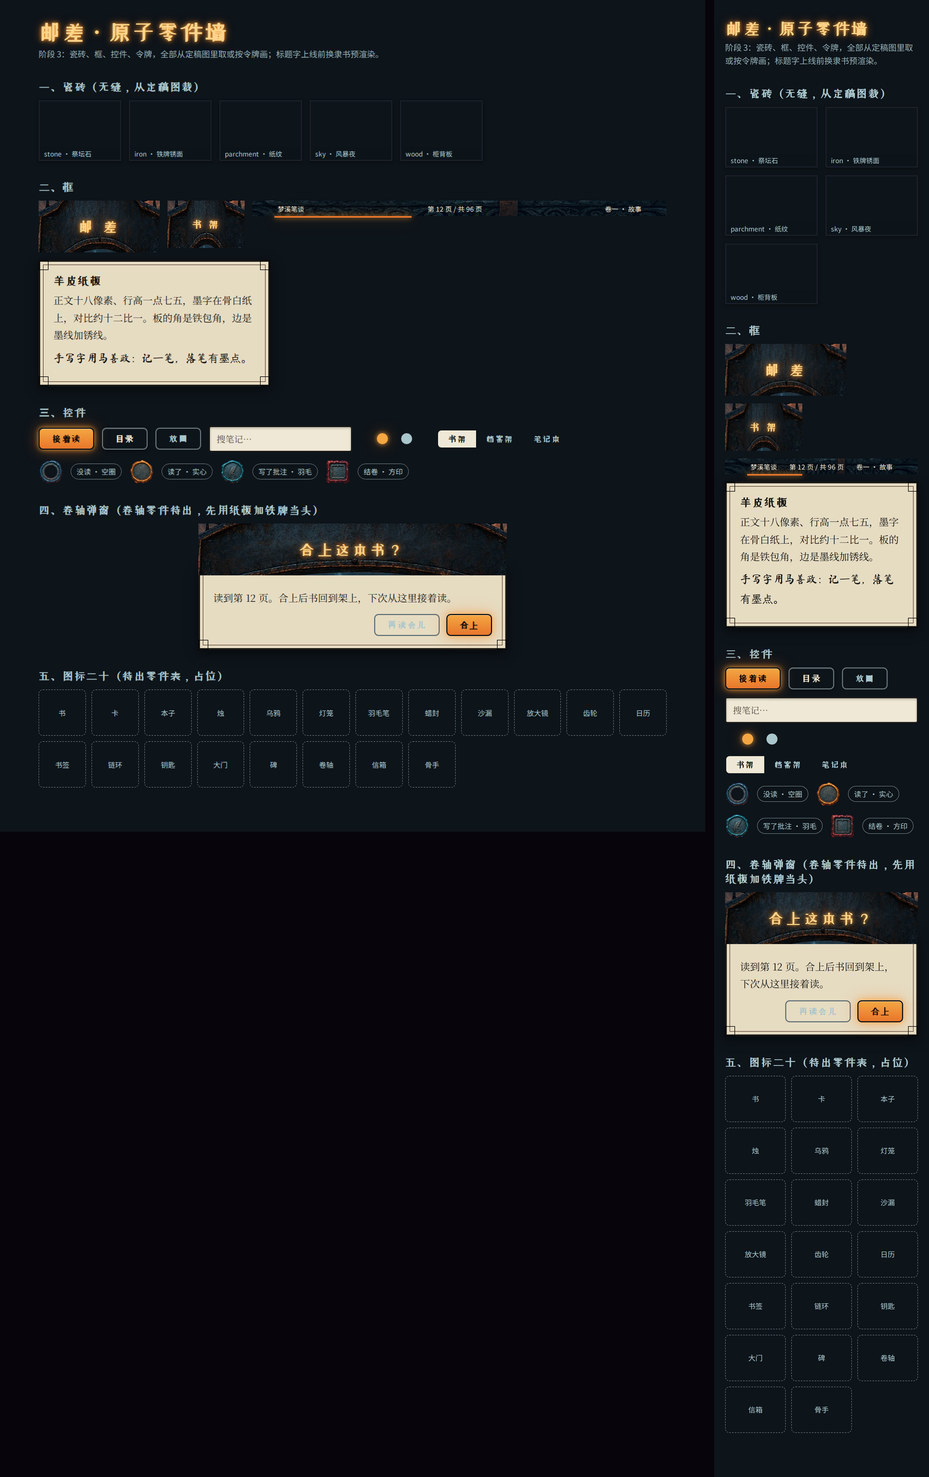
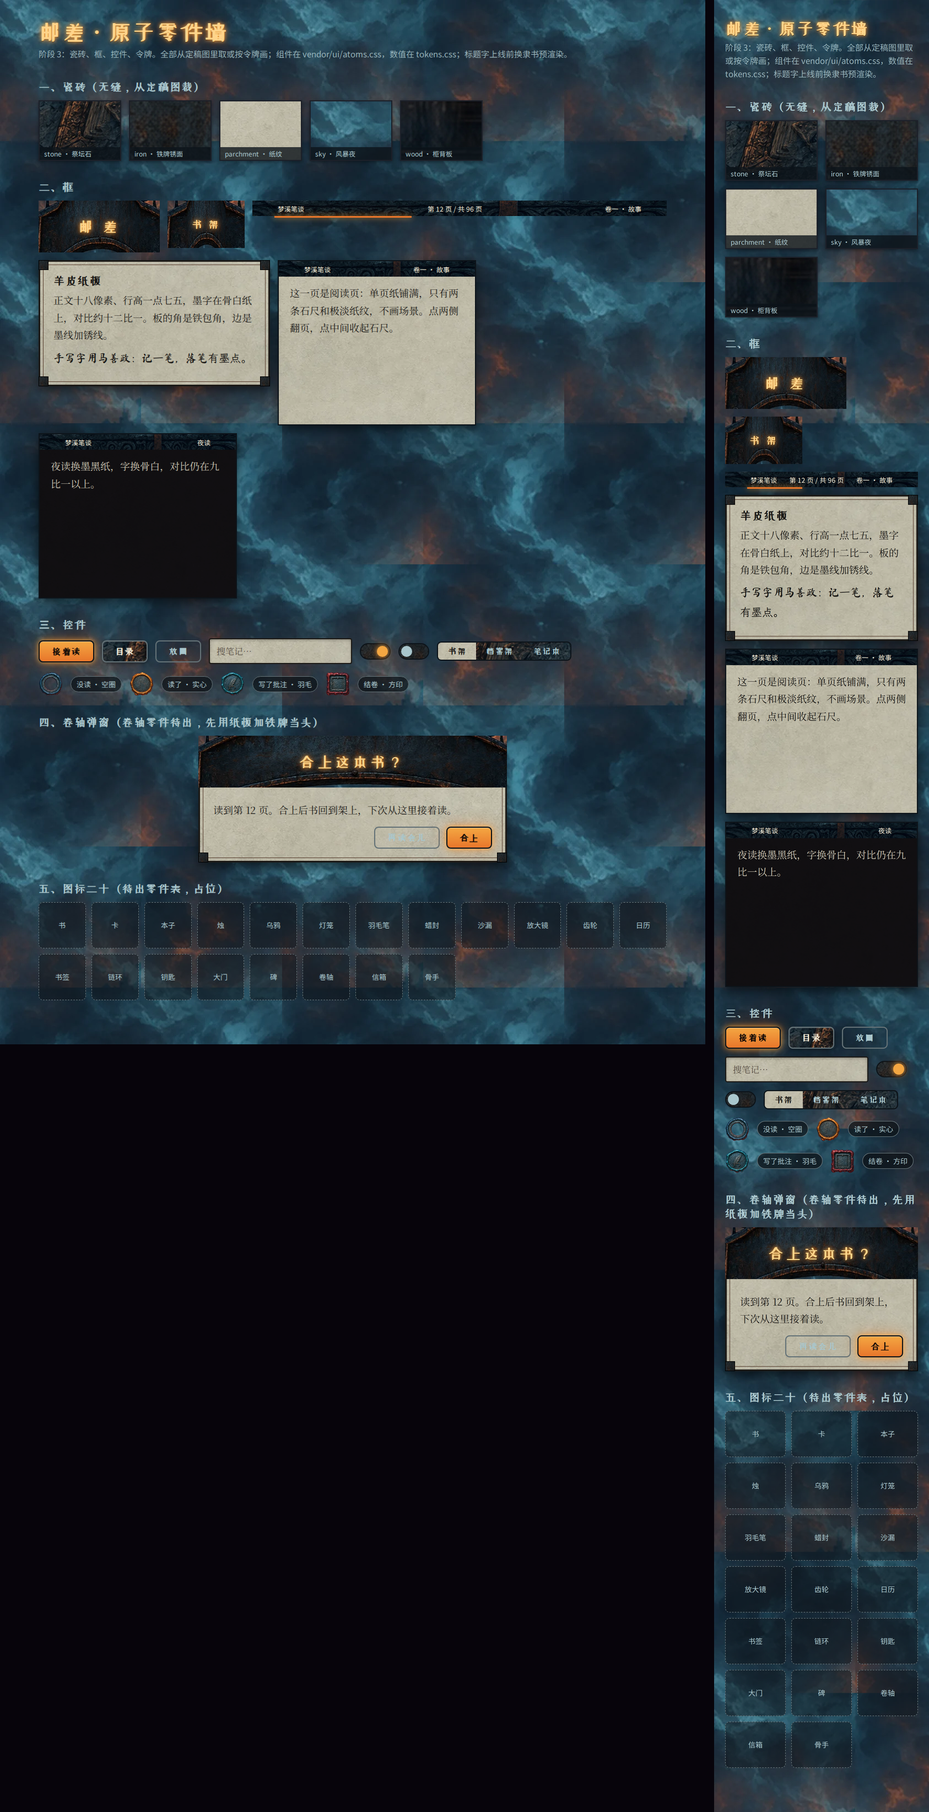
原子组件进 vendor/ui/atoms.css（瓷砖类、框、纸板、阅读页、控件、卷轴弹窗），零件墙页改用组件类，截图重出

diff --git a/docs/ui-atoms.html b/docs/ui-atoms.html
@@ -6,108 +6,75 @@
 <title>邮差 · 原子零件墙</title>
 <link rel="stylesheet" href="../vendor/fonts/fonts.css">
 <link rel="stylesheet" href="../vendor/ui/tokens.css">
+<link rel="stylesheet" href="../vendor/ui/atoms.css">
 <style>
   * { box-sizing: border-box; }
-  body { margin: 0; background: var(--yx-iron-900) var(--yx-tile-sky) center / 512px; color: var(--yx-paper); font: 15px/1.6 var(--yx-font-ui); }
+  body { margin: 0; font: 15px/1.6 var(--yx-font-ui); }
   main { max-width: 1180px; margin: 0 auto; padding: 24px var(--yx-gutter) 80px; }
   h1 { font: 700 40px/1.2 var(--yx-font-title); color: var(--yx-glow-200); text-shadow: var(--yx-glow-text); margin: 10px 0 4px; letter-spacing: .06em; }
   h2 { font: 700 20px/1.3 var(--yx-font-title); color: var(--yx-mist-300); margin: 34px 0 12px; letter-spacing: .08em; }
   .sub { color: var(--yx-mist-300); opacity: .85; }
   .row { display: flex; flex-wrap: wrap; gap: 14px; align-items: flex-start; }
-  /* 瓷砖 */
   .tile { width: 150px; height: 110px; border: 2px solid var(--yx-iron-700); box-shadow: var(--yx-shadow-soft); position: relative; }
   .tile b { position: absolute; left: 0; right: 0; bottom: 0; padding: 3px 8px; background: rgba(13,20,26,.8); font: 12px var(--yx-font-ui); color: var(--yx-mist-300); }
-  .t-stone { background: var(--yx-tile-stone) 0 0 / 256px; }
-  .t-iron { background: var(--yx-tile-iron) 0 0 / 256px; }
-  .t-parchment { background: var(--yx-tile-parchment) 0 0 / 256px; }
-  .t-sky { background: var(--yx-tile-sky) 0 0 / 256px; }
-  .t-wood { background: var(--yx-tile-wood) 0 0 / 256px; }
-  /* 框 */
-  .ironplate { border-style: solid; border-width: 28px 34px; border-image: url("../vendor/ui/frames/ironplate.webp") 28 34 28 34 fill / 28px 34px stretch; color: var(--yx-glow-200); font: 700 26px/1 var(--yx-font-title); text-shadow: var(--yx-glow-text); text-align: center; letter-spacing: .2em; padding: 6px 10px; display: inline-block; min-width: 220px; }
-  .ruler { height: var(--yx-ruler-h); border-style: solid; border-width: 0 40px; border-image: url("../vendor/ui/frames/stoneruler.webp") 0 40 0 40 fill / 0 40px stretch; display: flex; align-items: center; justify-content: space-between; padding: 0 6px; font: 12px var(--yx-font-ui); color: var(--yx-paper); position: relative; }
-  .ruler .bar { position: absolute; left: 0; bottom: -3px; height: 3px; background: var(--yx-glow-600); box-shadow: var(--yx-glow); }
-  .panel { background: var(--yx-paper-deep) var(--yx-tile-parchment) 0 0 / 512px; color: var(--yx-ink); border: 3px solid var(--yx-ink); outline: 1px solid var(--yx-rust-700); outline-offset: -9px; padding: 22px 24px; box-shadow: var(--yx-shadow); position: relative; }
-  .panel::before, .panel::after, .panel i::before, .panel i::after { content: ""; position: absolute; width: 16px; height: 16px; background: var(--yx-tile-iron) 0 0 / 64px; border: 1px solid #000; }
-  .panel::before { left: -3px; top: -3px; } .panel::after { right: -3px; top: -3px; } .panel i::before { left: -3px; bottom: -3px; } .panel i::after { right: -3px; bottom: -3px; }
-  .panel h3 { margin: 0 0 8px; font: 700 20px/1.2 var(--yx-font-title); letter-spacing: .1em; }
-  .panel p { margin: 0 0 8px; font: var(--yx-read-size)/var(--yx-read-lh) var(--yx-font-body); }
-  .panel .hand { font: 20px/1.8 var(--yx-font-hand); }
-  /* 控件 */
-  .btn { display: inline-flex; align-items: center; gap: 8px; padding: 10px 22px; border-radius: var(--yx-radius-m); font: 700 16px var(--yx-font-title); letter-spacing: .1em; cursor: pointer; border: 2px solid var(--yx-iron-900); transition: transform var(--yx-t-fast) var(--yx-ease), box-shadow var(--yx-t-fast); }
-  .btn:active { transform: translateY(2px); }
-  .btn-glow { background: linear-gradient(var(--yx-glow-400), var(--yx-glow-600)); color: #140c08; box-shadow: var(--yx-glow), inset 0 1px 0 rgba(255,255,255,.35); }
-  .btn-stone { background: var(--yx-tile-stone) 0 0 / 256px; color: var(--yx-paper); box-shadow: var(--yx-shadow-soft), inset 0 1px 0 rgba(255,255,255,.12); border-color: var(--yx-mist-600); }
-  .btn-ghost { background: transparent; color: var(--yx-mist-300); border-color: var(--yx-mist-600); }
-  .input { background: var(--yx-paper) var(--yx-tile-parchment) 0 0 / 512px; color: var(--yx-ink); border: 2px solid var(--yx-ink); border-radius: var(--yx-radius-s); padding: 10px 12px; font: 16px var(--yx-font-body); width: 260px; box-shadow: inset 0 2px 4px rgba(0,0,0,.25); }
-  .input::placeholder { color: var(--yx-ink-soft); }
-  .toggle { width: 56px; height: 30px; border-radius: 15px; background: var(--yx-tile-iron) 0 0 / 128px; border: 2px solid var(--yx-iron-900); position: relative; display: inline-block; vertical-align: middle; }
-  .toggle::after { content: ""; position: absolute; top: 3px; left: 3px; width: 20px; height: 20px; border-radius: 50%; background: var(--yx-mist-300); transition: left var(--yx-t-fast); }
-  .toggle.on::after { left: 29px; background: var(--yx-glow-400); box-shadow: var(--yx-glow); }
-  .tabs { display: inline-flex; border: 2px solid var(--yx-iron-900); border-radius: var(--yx-radius-m); overflow: hidden; background: var(--yx-tile-stone) 0 0 / 256px; }
-  .tabs span { padding: 8px 18px; font: 700 15px var(--yx-font-title); letter-spacing: .1em; color: var(--yx-mist-300); }
-  .tabs span.on { background: var(--yx-paper) var(--yx-tile-parchment) 0 0 / 512px; color: var(--yx-ink); }
-  .seal { width: 44px; height: 44px; vertical-align: middle; }
-  .chip { display: inline-flex; align-items: center; gap: 6px; padding: 4px 10px; border-radius: 20px; background: rgba(13,20,26,.75); border: 1px solid var(--yx-mist-600); color: var(--yx-mist-300); font: 13px var(--yx-font-ui); }
-  /* 卷轴弹窗（待卷轴零件；先用羊皮纸板加铁牌当头） */
-  .scroll { width: min(560px, 100%); margin: 0 auto; }
-  .scroll .head { display: block; margin: 0 auto -18px; position: relative; z-index: 1; }
-  .scroll .body { padding-top: 40px; }
-  .scroll .acts { display: flex; gap: 12px; justify-content: flex-end; margin-top: 14px; }
   .icons { display: grid; grid-template-columns: repeat(auto-fill, minmax(84px, 1fr)); gap: 10px; }
   .icons div { height: 84px; border: 1px dashed var(--yx-mist-600); border-radius: var(--yx-radius-m); display: flex; align-items: center; justify-content: center; font: 13px var(--yx-font-ui); color: var(--yx-mist-300); background: rgba(13,20,26,.5); }
-  @media (max-width: 600px) { h1 { font-size: 30px; } .tile { width: calc(50% - 7px); } .input { width: 100%; } }
+  .page-demo { width: min(360px, 100%); height: 300px; overflow: hidden; border: 2px solid var(--yx-iron-900); box-shadow: var(--yx-shadow); }
+  @media (max-width: 600px) { h1 { font-size: 30px; } .tile { width: calc(50% - 7px); } .yx-input { width: 100%; } }
 </style>
 </head>
-<body>
+<body class="yx-night">
 <main>
   <h1>邮差 · 原子零件墙</h1>
-  <div class="sub">阶段 3：瓷砖、框、控件、令牌，全部从定稿图里取或按令牌画；标题字上线前换隶书预渲染。</div>
+  <div class="sub">阶段 3：瓷砖、框、控件、令牌。全部从定稿图里取或按令牌画；组件在 vendor/ui/atoms.css，数值在 tokens.css；标题字上线前换隶书预渲染。</div>
 
   <h2>一、瓷砖（无缝，从定稿图裁）</h2>
   <div class="row">
-    <div class="tile t-stone"><b>stone · 祭坛石</b></div>
-    <div class="tile t-iron"><b>iron · 铁牌锈面</b></div>
-    <div class="tile t-parchment"><b>parchment · 纸纹</b></div>
-    <div class="tile t-sky"><b>sky · 风暴夜</b></div>
-    <div class="tile t-wood"><b>wood · 柜背板</b></div>
+    <div class="tile yx-tile-stone"><b>stone · 祭坛石</b></div>
+    <div class="tile yx-tile-iron"><b>iron · 铁牌锈面</b></div>
+    <div class="tile yx-tile-parchment"><b>parchment · 纸纹</b></div>
+    <div class="tile yx-tile-sky"><b>sky · 风暴夜</b></div>
+    <div class="tile yx-tile-wood"><b>wood · 柜背板</b></div>
   </div>
 
   <h2>二、框</h2>
   <div class="row">
-    <div class="ironplate">邮 差</div>
-    <div class="ironplate" style="min-width:140px;font-size:18px">书 架</div>
-    <div style="flex:1;min-width:260px"><div class="ruler"><span>梦溪笔谈</span><span>第 12 页 / 共 96 页</span><span>卷一 · 故事</span><div class="bar" style="width:37%"></div></div></div>
+    <div class="yx-ironplate">邮 差</div>
+    <div class="yx-ironplate small">书 架</div>
+    <div style="flex:1;min-width:260px"><div class="yx-ruler"><span>梦溪笔谈</span><span>第 12 页 / 共 96 页</span><span>卷一 · 故事</span><div class="bar" style="width:37%"></div></div></div>
   </div>
   <div class="row" style="margin-top:14px">
-    <div class="panel" style="width:min(420px,100%)"><i></i>
+    <div class="yx-panel" style="width:min(420px,100%)"><i></i>
       <h3>羊皮纸板</h3>
       <p>正文十八像素、行高一点七五，墨字在骨白纸上，对比约十二比一。板的角是铁包角，边是墨线加锈线。</p>
       <p class="hand">手写字用马善政：记一笔，落笔有墨点。</p>
     </div>
+    <div class="page-demo yx-page"><div class="yx-ruler" style="margin:-20px -20px 14px"><span>梦溪笔谈</span><span>卷一 · 故事</span></div>这一页是阅读页：单页纸铺满，只有两条石尺和极淡纸纹，不画场景。点两侧翻页，点中间收起石尺。</div>
+    <div class="page-demo yx-page night"><div class="yx-ruler" style="margin:-20px -20px 14px"><span>梦溪笔谈</span><span>夜读</span></div>夜读换墨黑纸，字换骨白，对比仍在九比一以上。</div>
   </div>
 
   <h2>三、控件</h2>
   <div class="row" style="align-items:center">
-    <span class="btn btn-glow">接着读</span>
-    <span class="btn btn-stone">目录</span>
-    <span class="btn btn-ghost">放回</span>
-    <input class="input" placeholder="搜笔记…">
-    <span class="toggle on"></span><span class="toggle"></span>
-    <div class="tabs"><span class="on">书架</span><span>档案架</span><span>笔记本</span></div>
+    <span class="yx-btn glow">接着读</span>
+    <span class="yx-btn stone">目录</span>
+    <span class="yx-btn ghost">放回</span>
+    <input class="yx-input" placeholder="搜笔记…" style="width:260px">
+    <span class="yx-toggle on"></span><span class="yx-toggle"></span>
+    <div class="yx-tabs"><span class="on">书架</span><span>档案架</span><span>笔记本</span></div>
   </div>
   <div class="row" style="align-items:center;margin-top:14px">
-    <img class="seal" src="../vendor/ui/seals/s01.webp" alt="没读"><span class="chip">没读 · 空圈</span>
-    <img class="seal" src="../vendor/ui/seals/s02.webp" alt="读了"><span class="chip">读了 · 实心</span>
-    <img class="seal" src="../vendor/ui/seals/s03.webp" alt="批注"><span class="chip">写了批注 · 羽毛</span>
-    <img class="seal" src="../vendor/ui/seals/s04.webp" alt="结卷"><span class="chip">结卷 · 方印</span>
+    <img class="yx-seal" src="../vendor/ui/seals/s01.webp" alt="没读"><span class="yx-chip">没读 · 空圈</span>
+    <img class="yx-seal" src="../vendor/ui/seals/s02.webp" alt="读了"><span class="yx-chip">读了 · 实心</span>
+    <img class="yx-seal" src="../vendor/ui/seals/s03.webp" alt="批注"><span class="yx-chip">写了批注 · 羽毛</span>
+    <img class="yx-seal" src="../vendor/ui/seals/s04.webp" alt="结卷"><span class="yx-chip">结卷 · 方印</span>
   </div>
 
   <h2>四、卷轴弹窗（卷轴零件待出，先用纸板加铁牌当头）</h2>
-  <div class="scroll">
-    <div class="ironplate head">合上这本书？</div>
-    <div class="panel body"><i></i>
+  <div class="yx-scroll">
+    <div class="yx-ironplate head">合上这本书？</div>
+    <div class="yx-panel body"><i></i>
       <p>读到第 12 页。合上后书回到架上，下次从这里接着读。</p>
-      <div class="acts"><span class="btn btn-ghost">再读会儿</span><span class="btn btn-glow">合上</span></div>
+      <div class="acts"><span class="yx-btn ghost">再读会儿</span><span class="yx-btn glow">合上</span></div>
     </div>
   </div>
 

diff --git a/vendor/ui/atoms.css b/vendor/ui/atoms.css
@@ -1,0 +1,51 @@
+/* 邮差奇幻界面 · 原子组件（圣经第四稿）。依赖 tokens.css 与 vendor/fonts/fonts.css。
+   瓷砖与框的图片路径相对本文件（vendor/ui/），所以不写在变量里。 */
+
+/* 瓷砖 */
+.yx-tile-stone { background-image: url("tiles/stone.webp"); background-size: 256px; }
+.yx-tile-iron { background-image: url("tiles/iron.webp"); background-size: 256px; }
+.yx-tile-parchment { background-image: url("tiles/parchment.webp"); background-size: 512px; }
+.yx-tile-sky { background-image: url("tiles/sky.webp"); background-size: 512px; }
+.yx-tile-wood { background-image: url("tiles/wood.webp"); background-size: 256px; }
+.yx-night { background-color: var(--yx-iron-900); background-image: url("tiles/sky.webp"); background-size: 512px; color: var(--yx-paper); }
+
+/* 框：铁牌（九宫格）与石尺（三切） */
+.yx-ironplate { border-style: solid; border-width: 28px 34px; border-image: url("frames/ironplate.webp") 28 34 28 34 fill / 28px 34px stretch; color: var(--yx-glow-200); font: 700 26px/1 var(--yx-font-title); text-shadow: var(--yx-glow-text); text-align: center; letter-spacing: .2em; padding: 6px 10px; display: inline-block; min-width: 220px; }
+.yx-ironplate.small { min-width: 140px; font-size: 18px; }
+.yx-ruler { height: var(--yx-ruler-h); border-style: solid; border-width: 0 40px; border-image: url("frames/stoneruler.webp") 0 40 0 40 fill / 0 40px stretch; display: flex; align-items: center; justify-content: space-between; padding: 0 6px; font: 12px var(--yx-font-ui); color: var(--yx-paper); position: relative; }
+.yx-ruler .bar { position: absolute; left: 0; bottom: -3px; height: 3px; background: var(--yx-glow-600); box-shadow: var(--yx-glow); }
+
+/* 羊皮纸板：纸纹瓷砖加墨线、锈线、铁包角 */
+.yx-panel { background-color: var(--yx-paper-deep); background-image: url("tiles/parchment.webp"); background-size: 512px; color: var(--yx-ink); border: 3px solid var(--yx-ink); outline: 1px solid var(--yx-rust-700); outline-offset: -9px; padding: 22px 24px; box-shadow: var(--yx-shadow); position: relative; }
+.yx-panel::before, .yx-panel::after, .yx-panel > i::before, .yx-panel > i::after { content: ""; position: absolute; width: 16px; height: 16px; background: url("tiles/iron.webp") 0 0 / 64px; border: 1px solid #000; }
+.yx-panel::before { left: -3px; top: -3px; } .yx-panel::after { right: -3px; top: -3px; } .yx-panel > i::before { left: -3px; bottom: -3px; } .yx-panel > i::after { right: -3px; bottom: -3px; }
+.yx-panel h3 { margin: 0 0 8px; font: 700 20px/1.2 var(--yx-font-title); letter-spacing: .1em; }
+.yx-panel p { margin: 0 0 8px; font: var(--yx-read-size)/var(--yx-read-lh) var(--yx-font-body); }
+.yx-panel .hand { font: 20px/1.8 var(--yx-font-hand); }
+
+/* 阅读页：单页纸铺满，只有两条石尺 */
+.yx-page { background-color: var(--yx-paper); background-image: url("tiles/parchment.webp"); background-size: 512px; color: var(--yx-ink); font: var(--yx-read-size)/var(--yx-read-lh) var(--yx-font-body); padding: var(--yx-gutter); }
+.yx-page.night { background-color: var(--yx-night-paper); background-blend-mode: multiply; color: var(--yx-night-ink); }
+
+/* 控件 */
+.yx-btn { display: inline-flex; align-items: center; gap: 8px; padding: 10px 22px; border-radius: var(--yx-radius-m); font: 700 16px var(--yx-font-title); letter-spacing: .1em; cursor: pointer; border: 2px solid var(--yx-iron-900); transition: transform var(--yx-t-fast) var(--yx-ease), box-shadow var(--yx-t-fast); user-select: none; }
+.yx-btn:active { transform: translateY(2px); }
+.yx-btn.glow { background: linear-gradient(var(--yx-glow-400), var(--yx-glow-600)); color: #140c08; box-shadow: var(--yx-glow), inset 0 1px 0 rgba(255,255,255,.35); }
+.yx-btn.stone { background: url("tiles/stone.webp") 0 0 / 256px; color: var(--yx-paper); box-shadow: var(--yx-shadow-soft), inset 0 1px 0 rgba(255,255,255,.12); border-color: var(--yx-mist-600); }
+.yx-btn.ghost { background: transparent; color: var(--yx-mist-300); border-color: var(--yx-mist-600); }
+.yx-input { background: var(--yx-paper) url("tiles/parchment.webp") 0 0 / 512px; color: var(--yx-ink); border: 2px solid var(--yx-ink); border-radius: var(--yx-radius-s); padding: 10px 12px; font: 16px var(--yx-font-body); box-shadow: inset 0 2px 4px rgba(0,0,0,.25); }
+.yx-input::placeholder { color: var(--yx-ink-soft); }
+.yx-toggle { width: 56px; height: 30px; border-radius: 15px; background: url("tiles/iron.webp") 0 0 / 128px; border: 2px solid var(--yx-iron-900); position: relative; display: inline-block; vertical-align: middle; }
+.yx-toggle::after { content: ""; position: absolute; top: 3px; left: 3px; width: 20px; height: 20px; border-radius: 50%; background: var(--yx-mist-300); transition: left var(--yx-t-fast); }
+.yx-toggle.on::after { left: 29px; background: var(--yx-glow-400); box-shadow: var(--yx-glow); }
+.yx-tabs { display: inline-flex; border: 2px solid var(--yx-iron-900); border-radius: var(--yx-radius-m); overflow: hidden; background: url("tiles/stone.webp") 0 0 / 256px; }
+.yx-tabs > * { padding: 8px 18px; font: 700 15px var(--yx-font-title); letter-spacing: .1em; color: var(--yx-mist-300); cursor: pointer; }
+.yx-tabs > .on { background: var(--yx-paper) url("tiles/parchment.webp") 0 0 / 512px; color: var(--yx-ink); }
+.yx-seal { width: 44px; height: 44px; vertical-align: middle; }
+.yx-chip { display: inline-flex; align-items: center; gap: 6px; padding: 4px 10px; border-radius: 20px; background: rgba(13,20,26,.75); border: 1px solid var(--yx-mist-600); color: var(--yx-mist-300); font: 13px var(--yx-font-ui); }
+
+/* 卷轴弹窗（卷轴零件出来前：铁牌当头、纸板当身） */
+.yx-scroll { width: min(560px, 100%); margin: 0 auto; }
+.yx-scroll .head { display: block; margin: 0 auto -18px; position: relative; z-index: 1; }
+.yx-scroll .body { padding-top: 40px; }
+.yx-scroll .acts { display: flex; gap: 12px; justify-content: flex-end; margin-top: 14px; }

diff --git a/STATUS.md b/STATUS.md
@@ -11,7 +11,7 @@ updated: 2026-11-06
 # 状态
 
 ## 现在停在哪
-- 2026-11-06 深夜 用户「继续」→ 阶段 3 原子第一轮（不花钱部分）：瓷砖五块从定稿图裁并无缝化（石、铁、纸、天、木；木的源只有 78 像素偏糊）进 vendor/ui/tiles/；九宫格框两件（站名铁牌、祭坛石尺）进 vendor/ui/frames/，切线记 kit.json；令牌 vendor/ui/tokens.css（色、字、形、影、光、瓷砖、时长）；零件墙页 docs/ui-atoms.html（瓷砖、框、羊皮纸板、按钮三种、文本框、开关、标签页、状态印、卷轴弹窗样子、图标占位），桌面与手机截图 docs/ui-atoms.png。等用户看零件墙并定要不要出两张零件表：P032 卷轴（展开的旧纸带蜡封与两根轴，身子留白，九宫格用）、P033 图标二十一表（铁与骨的小件：书、卡、本子、烛、乌鸦、灯笼、羽毛笔、蜡封、沙漏、放大镜、齿轮、日历、书签、链环、钥匙、大门、碑、卷轴、信箱、骨手），各约 1.5 元；可选 P034 材质四格一表（皮、布、木、骨）补瓷砖约 1.5 元。
+- 2026-11-06 深夜 用户「继续」→ 阶段 3 原子第一轮（不花钱部分）：瓷砖五块从定稿图裁并无缝化（石、铁、纸、天、木；木的源只有 78 像素偏糊）进 vendor/ui/tiles/；九宫格框两件（站名铁牌、祭坛石尺）进 vendor/ui/frames/，切线记 kit.json；令牌 vendor/ui/tokens.css（色、字、形、影、光、时长）与组件 vendor/ui/atoms.css（瓷砖类、框、纸板、阅读页、按钮、文本框、开关、标签页、印、卷轴弹窗；瓷砖路径不能放变量里，浏览器不按样式表位置解析）；零件墙页 docs/ui-atoms.html（瓷砖、框、羊皮纸板、按钮三种、文本框、开关、标签页、状态印、卷轴弹窗样子、图标占位），桌面与手机截图 docs/ui-atoms.png。等用户看零件墙并定要不要出两张零件表：P032 卷轴（展开的旧纸带蜡封与两根轴，身子留白，九宫格用）、P033 图标二十一表（铁与骨的小件：书、卡、本子、烛、乌鸦、灯笼、羽毛笔、蜡封、沙漏、放大镜、齿轮、日历、书签、链环、钥匙、大门、碑、卷轴、信箱、骨手），各约 1.5 元；可选 P034 材质四格一表（皮、布、木、骨）补瓷砖约 1.5 元。
 - 2026-11-06 深夜 用户「过」（擦脸与细书脊）→ 阶段 2 定稿工序完成，零件库建好：`vendor/ui/`（场景 6 张套曲线、零件 68 件，WebP 共 3.8 MB，`kit.json` 记题签板、路牌、格层、碑面、对开页坐标与提示词编号，README 写来源与授权），生成脚本 `tools/ui/build_kit.py`（从本机 tools/out 重建），另有 `tools/ui/lift.py`（定稿曲线）、`tools/ui/upscale.py`（fal 放大）。零件墙 docs/ui-kit.jpg。下一步阶段 3 原子：框、钮、卡、印、石尺、卷轴弹窗从定稿图里取，拼一页"零件墙"加一个卷轴弹窗（桌面与手机）；再阶段 4 首页与书架场接数据改代码。待办：正式放大换 esrgan / aura-sr 试；骨臂与本子分层；书封面二到八本的题签板复核；桌面首页与手机版三场背景。
 - 2026-11-06 深夜 用户 OK → 阶段 2 定稿工序做完一轮：擦脸（P029，干净，其余没动）、书脊改细一表（P030，宽高约 1:4）、放大试验（P031，clarity-upscaler 两倍 29 秒、余额没动，但背景有重画，正式放大要换更忠实的端点如 esrgan / aura-sr 再试）、提亮曲线、第四稿色板、圣经全文重写第四稿（docs/ui-style-bible.md）、脚本进 tools/ui/。书架场定稿底 tools/out/ui/trials3/final/shelf_clean_lift.png，贴新书脊的对照 docs/ui-final-shelf.jpg。等用户看：擦脸与细书脊过不过；过了就进阶段 3 原子（框、钮、卡、印从定稿图里取）或先把零件收进 vendor/ui/ 建 kit.json。
 - 2026-11-06 深夜 用户「过」（笔记本）→ 阶段 1 三件交互样稿齐，进阶段 2 定稿工序。不花钱的三样已做：提亮一档（gamma 0.85 曲线，四张最暗档从 51 到 74% 降到 33 到 46%，参考 45%；对照 docs/ui-lift.jpg，提亮后的图在 tools/out/ui/trials3/lift/）；从提亮图取色写成圣经第二节第四稿色板（冷青 #1A2730 / #324D5B / #5593A4，火橙 #3A2A22 / #7A5142 / #B76F49，铁黑 #0D141A，雾青白 #647277，锈褐 #5C4334，纸 #EFE8D6）；贴书与叠字脚本收进 tools/ui/（glow_text.py、shelf_books.py）。等用户看提亮对照并定花钱的三样：擦宽柜魔鬼脸（edit 一张约 1.5 元）、书脊改细重出一表（约 1.5 元）、放大器把定稿图放到两倍（fal 放大端点，先试一张看价）。之后圣经全文重写第四稿。

diff --git a/vendor/ui/README.md b/vendor/ui/README.md
@@ -22,3 +22,10 @@
 | `seals/` | 状态印四枚：空圈没读、实心读了、羽毛批注、方印结卷 | `state` |
 
 格式一律 WebP（场景 86、零件带透明通道 88），全套约 3.5 MB。坐标都是该图的像素坐标，场景不缩放；缩放时按比例换算。
+
+## 令牌与组件
+
+- `tokens.css`：颜色、字、形、影、光、时长，只放数值。
+- `atoms.css`：瓷砖类（`.yx-tile-*`、`.yx-night`）、框（`.yx-ironplate`、`.yx-ruler`）、羊皮纸板（`.yx-panel`）、阅读页（`.yx-page`，`.night` 夜读）、控件（`.yx-btn glow|stone|ghost`、`.yx-input`、`.yx-toggle`、`.yx-tabs`、`.yx-seal`、`.yx-chip`）、卷轴弹窗（`.yx-scroll`）。图片路径相对本目录。
+- `tiles/`：五块无缝瓷砖（石、铁、纸、天、木），`frames/`：铁牌九宫格与石尺三切，切线在 `kit.json`。
+- 样子看 `docs/ui-atoms.html`。
